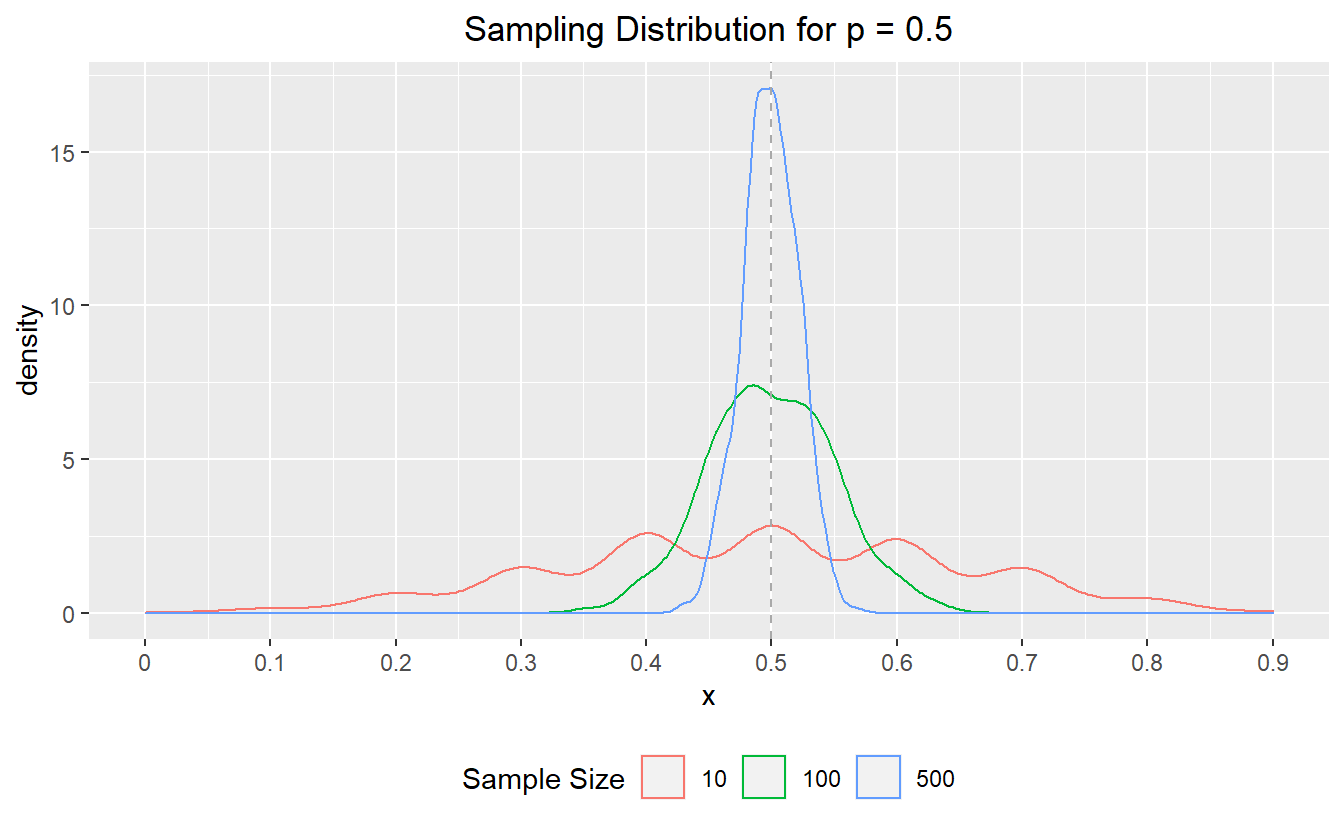
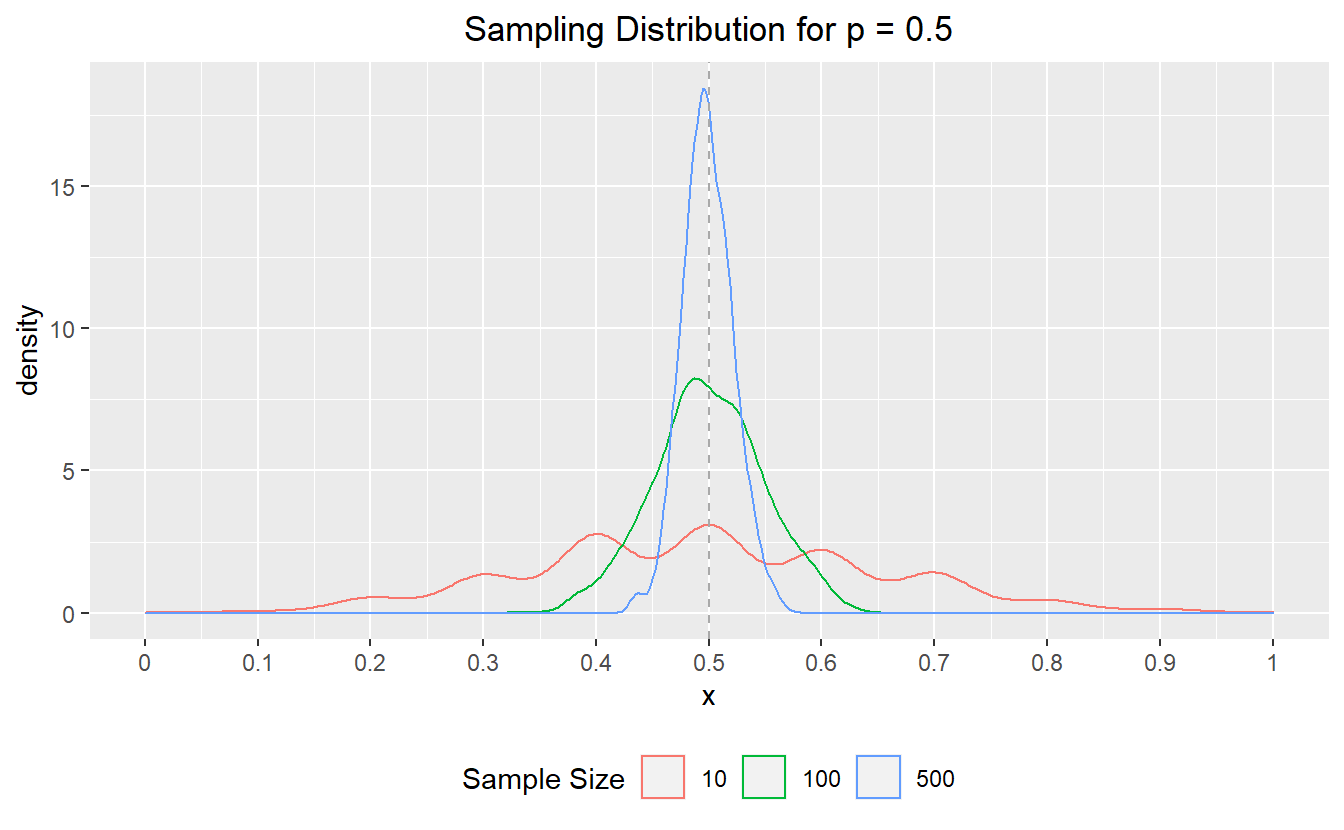
update draft

diff --git a/content/post/averages/index.md b/content/post/averages/index.md
@@ -26,31 +26,47 @@ image:
 #   E.g. `projects = ["internal-project"]` references `content/project/deep-learning/index.md`.
 #   Otherwise, set `projects = []`.
 projects: [""]
-rmd_hash: fbbf5e0b56c8ae58
+rmd_hash: 7ad42682eadc3e95
 
 ---
 
-Last month, I dusted off a training course that I first developed in 2018 to teach to a class of new hires at work. The content focuses on many types of *data disasters*[^1] that are often encountered when working with data -- from misunderstanding how data is structured and tools work to errors in causal inference and model building -- yet rarely taught in stats training.
+Last month, I dusted off a training course that I first developed in 2018 to teach to a class of new hires at work. The content focuses on many types of *data disasters*[^1] that are often encountered when working with data -- from misunderstanding how data is structured pr how tools are meant to work, to errors in causal interpretation and model building -- yet rarely taught in stats training.
 
-This year, however, the material felt a bit different, and it was not simply because (for now the second year) I was sitting alone in a room all afternoon rambling to myself and a Zoom screen about all the ways everything can go wrong.
+This year, however, the material felt a bit different, and it was not simply because (for the second year) I was sitting alone in a room all afternoon rambling to myself and a Zoom screen about all the ways everything can go wrong and how you really can't ever trust anything (in data, that is.)
 
-{{&lt; tweet 1305666403824021507 &gt;}}
+<blockquote class="twitter-tweet">
+<p lang="en" dir="ltr">
+Teaching an intro data analysis class tomorrow which means I'll be sitting alone in a room by myself for three hours and talking at my computer screen about how numbers can lie to you. Just another normal, healthy 2020 thing <a href="https://t.co/u6nKfLhaxj">pic.twitter.com/u6nKfLhaxj</a>
+</p>
+--- Emily Riederer (@EmilyRiederer) <a href="https://twitter.com/EmilyRiederer/status/1305666403824021507?ref_src=twsrc%5Etfw">September 15, 2020</a>
+</blockquote>
+<script async src="https://platform.twitter.com/widgets.js" charset="utf-8"></script>
 
-This year, the material took on a whole new level of gravity. In a nutshell, as I walked through my taxonomy and examples of data disasters, one of my underlying message had always been that stats education focuses on the "complex" things (e.g. proving asymptotic convergence) but simple things can also be hard and important. However, as the pandemic has evolved over the last year and a half, more highly important data analysis has been done in the open than ever before, and much of it has unsurprisingly hit many of the snags one would when working with messy, inconsistent, ever-changing, observational data.
+This year, the material took on a whole new level of gravity. As I walked through my taxonomy and examples of data disasters, one of my underlying message had always been that stats education focuses on the "complex" things (e.g. proving asymptotic convergence) but simple things can also be hard and important. However, as the pandemic has evolved over the last two years, more highly important data processing has been done in the open and on the fly than ever before, and much of it has unsurprisingly hit many of the snags one would when working with messy, inconsistent, ever-changing, observational data.
 
-As I walked through the course, I found myself thinking about many pandemic-related examples for every "disasters" which all felt more urgent and timely than the industry-specific examples that I had concocted. In this post, I walk through just one such example of simple things that are hard. This is the story of a [simple average informing public health policy in Indiana](https://www.indystar.com/story/news/health/2020/12/23/covid-indiana-positivity-rate-error-corrected-dec-30/4013741001/) and what it illustrates about imprecise estimands, (possibly BI tools), independence assumptions, de Moivre's equation, and sampling bias.
+As I walked through the course, I found myself thinking about many pandemic-related examples for every "disasters" which all felt more urgent and timely than the industry-specific examples that I had concocted. In this post, I walk through just one such example of simple things that are hard. This is the story of a [simple average informing public health policy in Indiana](https://www.indystar.com/story/news/health/2020/12/23/covid-indiana-positivity-rate-error-corrected-dec-30/4013741001/) and what it illustrates about imprecise estimands, the definition of the average, sampling variability, independence assumptions, and selection bias.
 
 What happened?
 --------------
 
+A [local news article](https://www.indystar.com/story/news/health/2020/12/23/covid-indiana-positivity-rate-error-corrected-dec-30/4013741001/) explains that the seven-day test positivity rate was being calculated as the average of daily positivity rates. Instead, the methodology was changed to calculate a single rolling weekly rate:
+
 > "The change to the methodology is how we calculate the seven-day positivity rate for counties. In the past, similar to many states, we've added each day's positivity rate for seven days and divided by seven to obtain the week's positivity rate. Now we will add all of the positive tests for the week and divide by the total tests done that week to determine the week's positivity rate. This will help to minimize the effect that a high variability in the number of tests done each day can have on the week's overall positivity, especially for our smaller counties."
+
+That is, the decision was made to move from `avg( n_positive / n_tests )` to `sum( n_positive ) / sum(n_tests)`.
+
+While the article states that the change would not have historically changed any decision-making, this metric nontheless was tied to important decision making processes, thus raising the takes for its accuracy:
+
+> The changes could result in real-world differences for Hoosiers, because the state uses a county's positivity rate as one of the numbers to determine which restrictions that county will face. Those restrictions determine how many people may gather, among other items.
+
+At the outset, this may seem like a trivial change and the type of distinction one might not bother to make when throwing together a quick dashboard or report[^2] However, as we will examing step-by-step, this subtle mechanical difference actually carries with it a weight of statistical reasoning.
 
 What went wrong?
 ----------------
 
 ### What is the target?
 
-The first step to tracking a metric is defining the metric to track. This sounds obvious, but too often it is not. Metric design requires a lot of thought[^2] yet often glossed over even in important contexts such as medical research[^3]. In more complex problems, this will affect the research design and statistical methods we use to derive results, but in simpler cases like this, it can simply alter basic arithmetic.
+The first step to tracking a metric is defining the metric to track. This sounds obvious, but too often it is not. Metric design requires a lot of thought[^3] yet often glossed over even in important contexts such as medical research[^4]. In more complex problems, this will affect the research design and statistical methods we use to derive results, but in simpler cases like this, it can simply alter basic arithmetic.
 
 So, the problem here starts with the very definition of what we are trying to track:
 
@@ -111,7 +127,7 @@ And, alternatively, none of this matters if the number of tests are the same on 
 
 So, we probably used the wrong type of average for the question at hand, but we probably could have gotten away with it if the sample sizes across days were not substantially different. We say how the sample size affects the weighting, but can it cause other statistical problems?
 
-Suppose for a minute, that this is a binomial setup where each test has an equal probability of coming back positive (it does not). We can simulate a number of draws from binomial distributions of different sample sizes, compute the sample proportion of successes, and inspect the mean and variance. Below, we confirm what we would expect that small samples produce unbiased but high variance estimates[^4].
+Suppose for a minute, that this is a binomial setup where each test has an equal probability of coming back positive (it does not). We can simulate a number of draws from binomial distributions of different sample sizes, compute the sample proportion of successes, and inspect the mean and variance. Below, we confirm what we would expect that small samples produce unbiased but high variance estimates[^5].
 
 <div class="highlight">
 
@@ -122,8 +138,8 @@ Suppose for a minute, that this is a binomial setup where each test has an equal
 <span class='nf'><a href='https://rdrr.io/r/base/lapply.html'>vapply</a></span><span class='o'>(</span><span class='nv'>samples</span>, FUN <span class='o'>=</span> <span class='kr'>function</span><span class='o'>(</span><span class='nv'>x</span><span class='o'>)</span> <span class='nf'><a href='https://rdrr.io/r/base/Round.html'>round</a></span><span class='o'>(</span><span class='nf'><a href='https://rdrr.io/r/base/mean.html'>mean</a></span><span class='o'>(</span><span class='nv'>x</span><span class='o'>)</span>, <span class='m'>3</span><span class='o'>)</span>, FUN.VALUE <span class='o'>=</span> <span class='nf'><a href='https://rdrr.io/r/base/numeric.html'>numeric</a></span><span class='o'>(</span><span class='m'>1</span><span class='o'>)</span><span class='o'>)</span>
 <span class='nf'><a href='https://rdrr.io/r/base/lapply.html'>vapply</a></span><span class='o'>(</span><span class='nv'>samples</span>, FUN <span class='o'>=</span> <span class='kr'>function</span><span class='o'>(</span><span class='nv'>x</span><span class='o'>)</span> <span class='nf'><a href='https://rdrr.io/r/base/Round.html'>round</a></span><span class='o'>(</span><span class='nf'><a href='https://rdrr.io/r/stats/sd.html'>sd</a></span><span class='o'>(</span><span class='nv'>x</span><span class='o'>)</span>, <span class='m'>3</span><span class='o'>)</span>, FUN.VALUE <span class='o'>=</span> <span class='nf'><a href='https://rdrr.io/r/base/numeric.html'>numeric</a></span><span class='o'>(</span><span class='m'>1</span><span class='o'>)</span><span class='o'>)</span>
 
-<span class='c'>#&gt; [1] 0.489 0.500 0.499</span>
-<span class='c'>#&gt; [1] 0.158 0.051 0.022</span>
+<span class='c'>#&gt; [1] 0.496 0.499 0.499</span>
+<span class='c'>#&gt; [1] 0.156 0.049 0.022</span>
 </code></pre>
 
 </div>
@@ -136,7 +152,7 @@ If staring at summary statistics is uninspiring, we can wrap our minds around th
 
 </div>
 
-So, days with smaller samples are most likely to take the most extreme values which could yank an average in one direction *or the other* ephemerally[^5]. This alone is a bad situation for a metric of interest; however, it can't be the full story. The initial article implies that the positivity rate was being *consistently overestimated*, that is, biased.
+So, days with smaller samples are most likely to take the most extreme values which could yank an average in one direction *or the other* ephemerally[^6]. This alone is a bad situation for a metric of interest; however, it can't be the full story. The initial article implies that the positivity rate was being *consistently overestimated*, that is, biased.
 
 ### Is sample size suggestive of a problem?
 
@@ -326,11 +342,13 @@ but low sample days based on real world are probably also a sign of a different 
 
 [^1]: Similar to the long-form writing project I'm working in the open over [here](https://data-disasters.netlify.app/)
 
-[^2]: One framework for approaching metric design is eloquently explored by Sean Taylor in this essay: <a href="https://medium.com/@seanjtaylor/designing-and-evaluating-metrics-5902ad6873bf" class="uri">https://medium.com/@seanjtaylor/designing-and-evaluating-metrics-5902ad6873bf</a>
+[^2]: In fact, I suspect there is a side story here about some common BI tools making the computation of the former metric significantly easier than the latter. But, that is not something I can substantiate, so I will not get on that soapbox.
 
-[^3]: This new study cites many examples of poorly defined estimands (think metrics) from the BMJ: <a href="https://trialsjournal.biomedcentral.com/articles/10.1186/s13063-021-05644-4" class="uri">https://trialsjournal.biomedcentral.com/articles/10.1186/s13063-021-05644-4</a>
+[^3]: One framework for approaching metric design is eloquently explored by Sean Taylor in this essay: <a href="https://medium.com/@seanjtaylor/designing-and-evaluating-metrics-5902ad6873bf" class="uri">https://medium.com/@seanjtaylor/designing-and-evaluating-metrics-5902ad6873bf</a>
 
-[^4]: We also know this with standard statistical results and formulas, but it's more fun to see it.
+[^4]: This new study cites many examples of poorly defined estimands (think metrics) from the BMJ: <a href="https://trialsjournal.biomedcentral.com/articles/10.1186/s13063-021-05644-4" class="uri">https://trialsjournal.biomedcentral.com/articles/10.1186/s13063-021-05644-4</a>
 
-[^5]: As discussed at length in this Scientific American article: <a href="https://www.americanscientist.org/article/the-most-dangerous-equation" class="uri">https://www.americanscientist.org/article/the-most-dangerous-equation</a>
+[^5]: We also know this with standard statistical results and formulas, but it's more fun to see it.
+
+[^6]: As discussed at length in this Scientific American article: <a href="https://www.americanscientist.org/article/the-most-dangerous-equation" class="uri">https://www.americanscientist.org/article/the-most-dangerous-equation</a>
 
